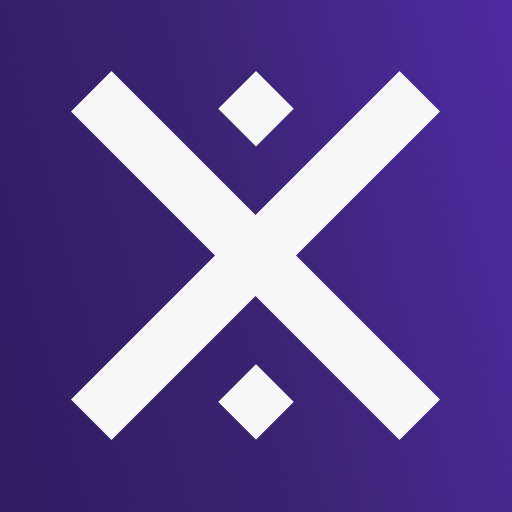
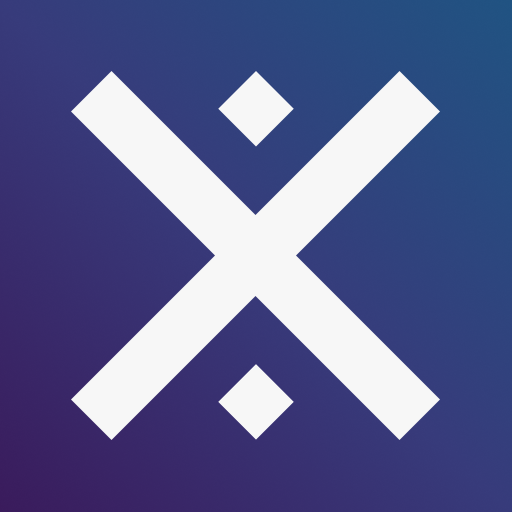
Update theme

diff --git a/styles/global.tsx b/styles/global.tsx
@@ -18,10 +18,8 @@ const warningLight = '#e64358';
 const warningDark = '#de5063';
 const codeHighlight = '#202022';
 const avatar = '#412485';
-const sunrise =
-  'linear-gradient(to bottom,#4e2ba2 0%, #3a2372 50%,#311c61 100%)';
-const sunset = 'linear-gradient(to bottom,#328aa7 0%,#1c4d78 50%,#00425f 100%)';
-
+const gradient =
+  'linear-gradient(to bottom,#205382 0%, #373b7b 50%,#3a1b5c 100%)';
 type GlobalStylesProps = {
   fontPrimary: string;
   fontSecondary: string;
@@ -48,6 +46,7 @@ const GlobalStyles: FC<GlobalStylesProps> = ({
             '--color-avatar': avatar,
             '--color-select': grayAccentLight,
             '--code-highlight': codeHighlight,
+            '--color-gradient': gradient,
             '--icon-download-dark': 'url(/icons/download-dark.svg)',
             '--icon-download-light': 'url(/icons/download-light.svg)',
             '--icon-copy': 'url(/icons/copy-light.svg)',
@@ -65,7 +64,6 @@ const GlobalStyles: FC<GlobalStylesProps> = ({
             '--color-accent': lightAccent,
             '--color-accent-darker': lightDarker,
             '--color-warning': warningLight,
-            '--color-gradient': sunset,
             '--page-bg': lightDarker,
             '--code-bg': darkAccent,
             '--icon-paypal': 'url(/icons/paypal-light.svg)',
@@ -85,7 +83,6 @@ const GlobalStyles: FC<GlobalStylesProps> = ({
             '--color-accent': darkAccent,
             '--color-accent-darker': darker,
             '--color-warning': warningDark,
-            '--color-gradient': sunrise,
             '--page-bg': darkAccent,
             '--code-bg': darkAccent,
             '--icon-paypal': 'url(/icons/paypal-dark.svg)',

diff --git a/components/CanvasLoader.tsx b/components/CanvasLoader.tsx
@@ -56,7 +56,7 @@ const CanvasLoader: FC = () => {
         gl={{ antialias: true }}
         dpr={pixelRatio}
         onCreated={({ camera }) => camera.lookAt(0, 0, 0)}
-        camera={{ position: [0.35, 0.35, 0.35] }}
+        camera={{ position: [0.25, 0.25, 0.25] }}
       >
         <CanvasTerrain
           detail={detail}

diff --git a/styles/theme.tsx b/styles/theme.tsx
@@ -2,12 +2,12 @@ export const themeLight = {
   active: 'light',
   favicon: '/favicon-light.png',
   gh: 'dark',
-  canvas: '#89a9c4',
+  canvas: '#978fac',
 };
 
 export const themeDark = {
   active: 'dark',
   favicon: '/favicon-dark.png',
   gh: 'light',
-  canvas: '#886fd4',
+  canvas: '#978fac',
 };
